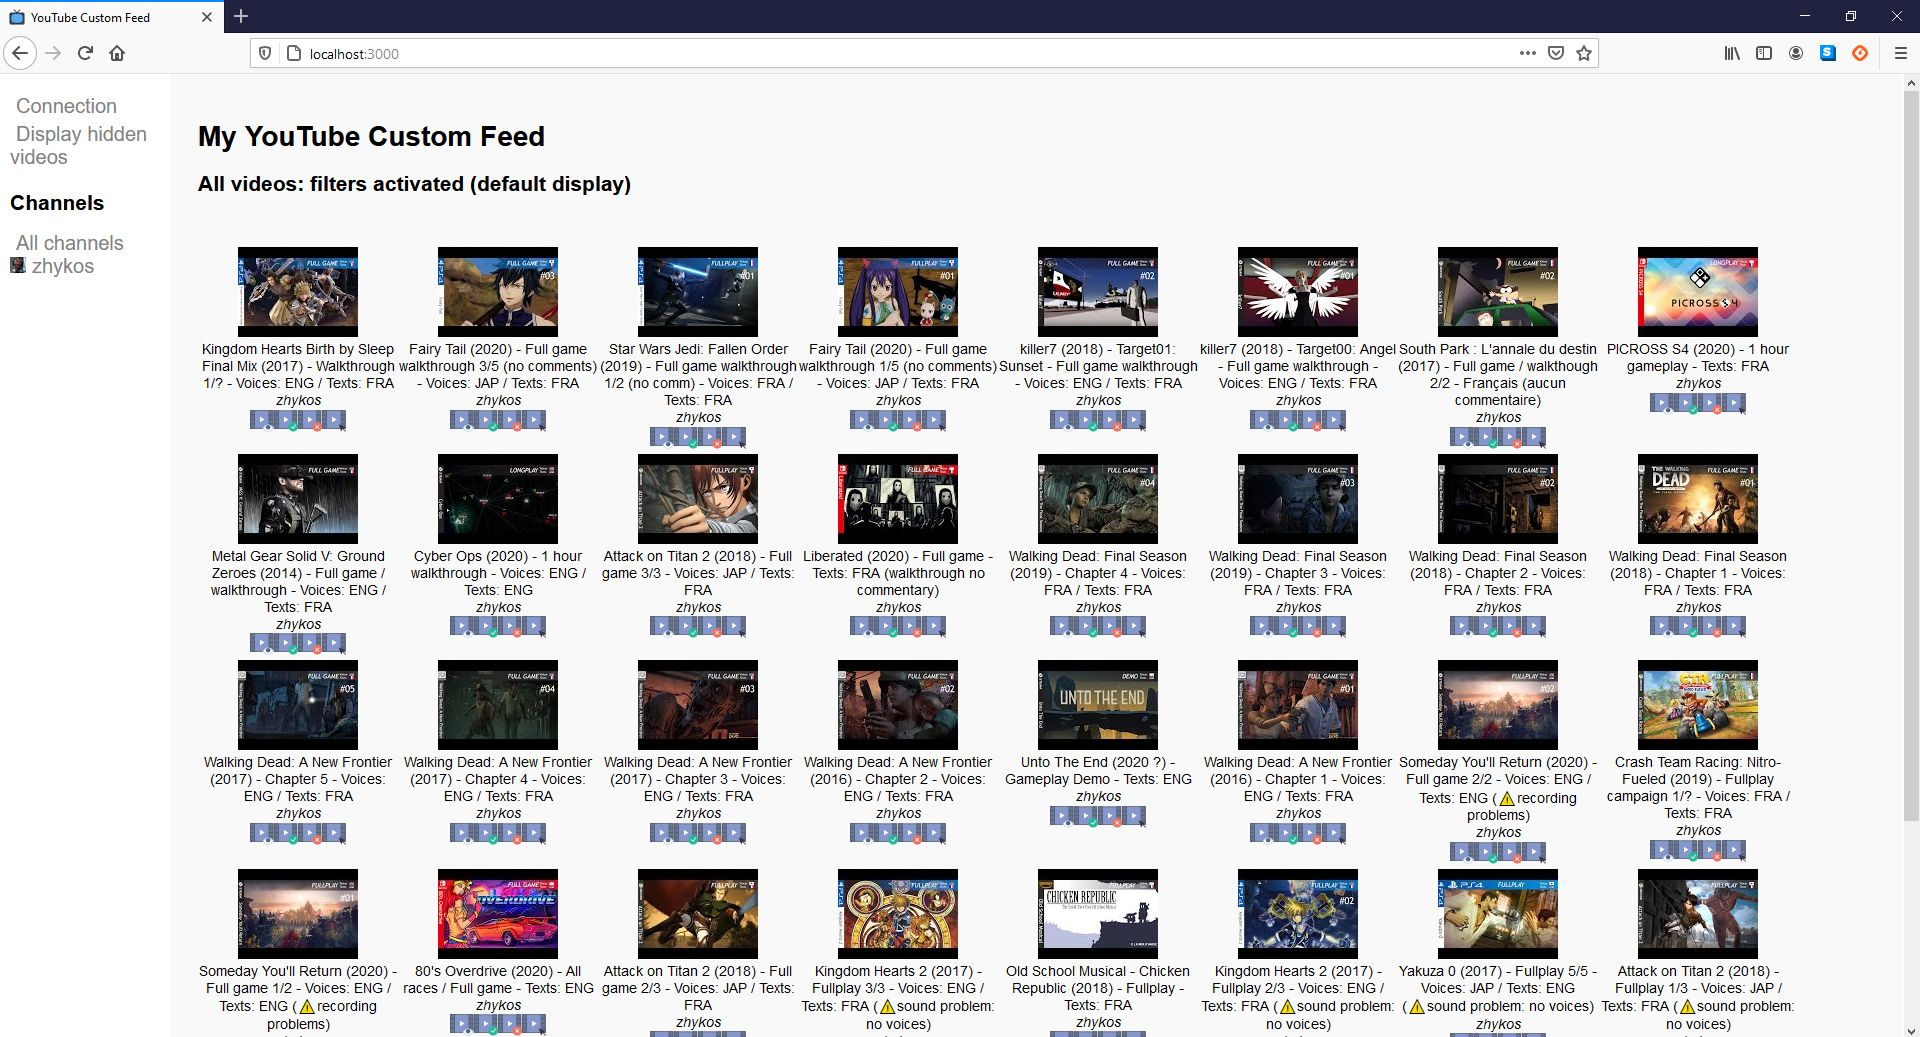
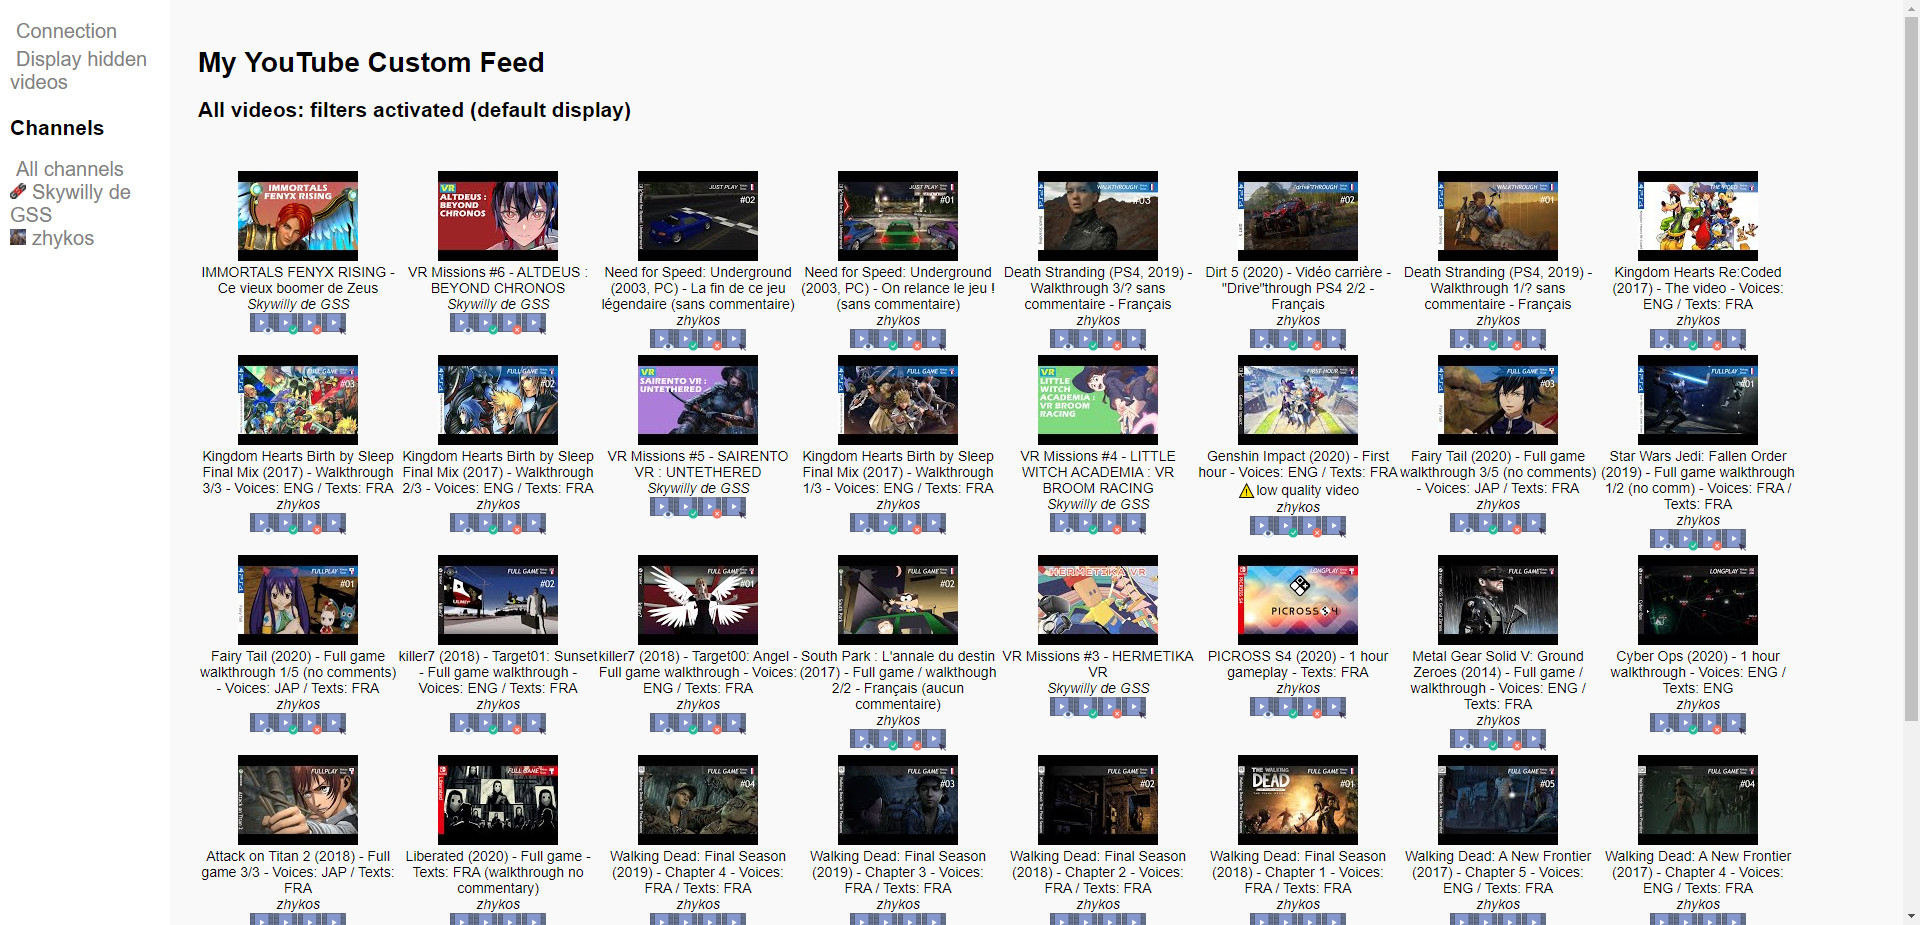
Take screenshots during tests to update documentation

diff --git a/tests/client-selenium-test.js b/tests/client-selenium-test.js
@@ -34,6 +34,7 @@ describe('beforeAll', () => {
   test("beforeAll", async () => {
     jest.clearAllMocks();
     driver = await new Builder().forBrowser(config.BROWSER_TEST).build();
+    await driver.manage().window().maximize();
     deleteDatabaseTempFile();
     openDB();
   });
@@ -44,6 +45,7 @@ describe('Selenium tests', () => {
 
   test("beforeAll", async () => {
     await driver.get(rootURL);
+    await helpers.takeScreenshotForDocumentation("client-guide-00", driver);
   });
 
   test('Display hidden videos', async () => {
@@ -66,6 +68,7 @@ describe('Selenium tests', () => {
     await helpers.selectId('video_f5s2yomPNL0', driver);
     await helpers.assertCountElementsByClass("video", 100, driver);
 
+    await helpers.takeScreenshotForDocumentation("client-guide-08", driver);
 
     // Back to default display
 
@@ -93,6 +96,8 @@ describe('Selenium tests', () => {
 
     await helpers.selectId('video_f5s2yomPNL0', driver);
     await helpers.assertNoId('video_4QXpyrp8WUo', driver);
+
+    await helpers.takeScreenshotForDocumentation("client-guide-11", driver);
 
     // Skywilly channel
 
@@ -122,6 +127,9 @@ describe('Selenium tests', () => {
     const linkOpen = await helpers.selectId('button-open-4QXpyrp8WUo', driver);
     await linkOpen.click();
     await helpers.assertIsVisibleById("popup", driver);
+
+    await helpers.waitMilli(2000);
+    await helpers.takeScreenshotForDocumentation("client-guide-13", driver);
 
     // Close video
 
@@ -263,6 +271,34 @@ describe('Selenium error tests', () => {
 
   test('No parameter file', async () => {
     await helpers.assertIsVisibleById("settings-error", driver);
+  });
+
+});
+
+describe('Other screenshots', () => {
+
+  test("beforeAll", async () => {
+    vcfServer.vcf_keys.youtube.clientApiKey = "<XXX>";
+    await driver.get(rootURL);
+  });
+
+  test('Take screenshots', async () => {
+    // TODOs
+    // client-guide-01
+    // client-guide-02
+    // client-guide-04
+    // client-guide-05
+    // youtube-channel
+
+    // TODOs (cut/modify)
+    // client-guide-06
+    // client-guide-07
+    // client-guide-09
+    // client-guide-10
+    // client-guide-12
+    // client-guide-14
+    // client-guide-15
+    // client-guide-16
   });
 
 });

diff --git a/tests/tests-helpers.js b/tests/tests-helpers.js
@@ -1,5 +1,7 @@
 const { By, until } = require('selenium-webdriver');
 const fs = require('fs');
+const pngToJpeg = require('png-to-jpeg');
+const config = require('../youtube-custom-feed/bin/config.js');
 
 const waitUntilTime = 20000;
 
@@ -78,3 +80,13 @@ async function assertCountElementsByClass(classSelector, expectedValue, driver) 
   });
 }
 exports.assertCountElementsByClass = assertCountElementsByClass;
+
+async function takeScreenshotForDocumentation(filename, driver) {
+  if (config.BROWSER_TEST == "chrome") {
+    await driver.takeScreenshot().then(function (png64) {
+      const buffer = Buffer.from(png64, 'base64');
+      pngToJpeg({ quality: 90 })(buffer).then(output => fs.writeFileSync("./doc/images/" + filename + ".jpg", output));
+    });
+  }
+}
+exports.takeScreenshotForDocumentation = takeScreenshotForDocumentation;
